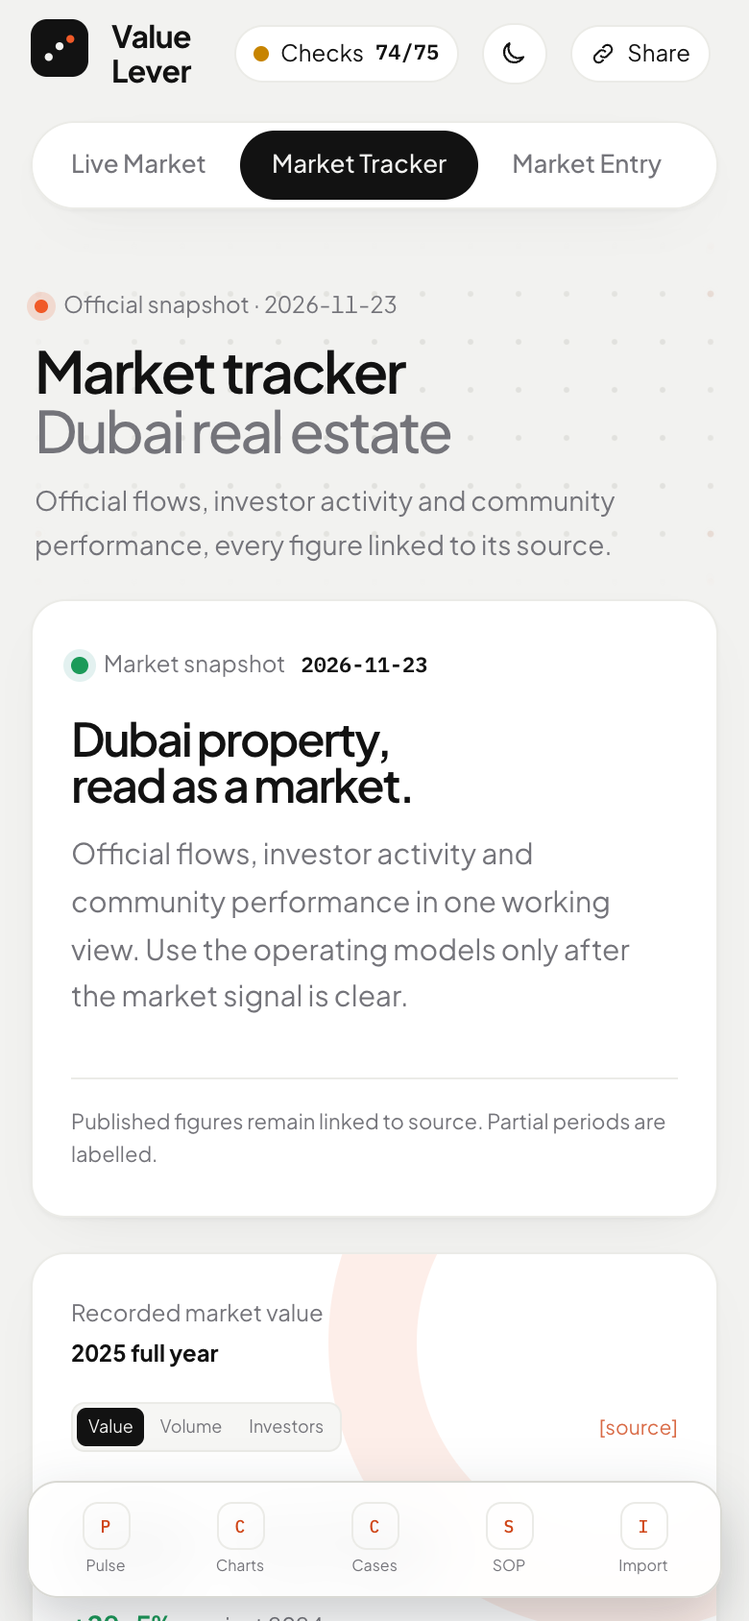
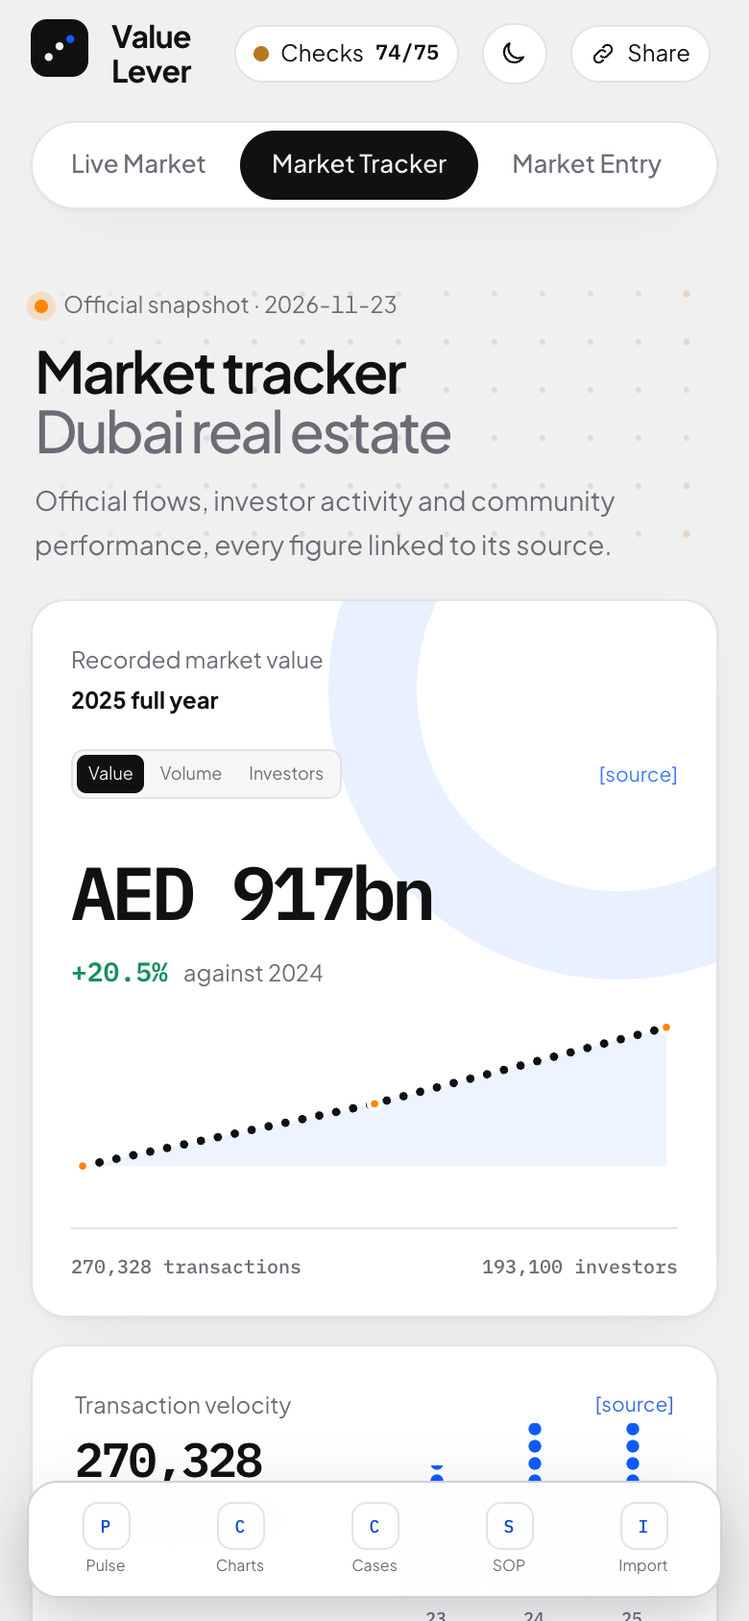
One palette (Cloudy White, Galactic Violet, Bubblegum), merged overview widgets, live-impact panel beside portfolio plays (v1.9.0)

diff --git a/src/ui/components/EntryView.jsx b/src/ui/components/EntryView.jsx
@@ -1,9 +1,9 @@
 import React, { useEffect, useMemo, useState } from 'react';
 import { AS_OF, SOURCES, JURISDICTIONS, VA_ACTIVITIES, MODELS, COMPANY_STEPS, PRODUCT_STEPS, VASP_STAGES, COMPLIANCE, assess, varaCosts } from '../../engine/entry.js';
 import { Source } from './Source.jsx';
-import { PageHead, Waterfall, Section, Contents } from './Dots.jsx';
+import { PageHead, Waterfall, Section, Contents, DotRing } from './Dots.jsx';
 import { LocationAdvisor, RouteProcedure, EntryTimeline, MoaGuide, TaxGuide, Bottlenecks } from './EntryGuide.jsx';
-import { STEPS, GUIDE_SOURCES } from '../../engine/entryGuide.js';
+import { STEPS, GUIDE_SOURCES, schedule, ROUTES } from '../../engine/entryGuide.js';
 
 const KEY = 'vls.entry.v1';
 const aed = (v) => (v == null ? 'Set by VARA' : `AED ${Math.round(v).toLocaleString('en-US')}`);
@@ -56,49 +56,24 @@ export function EntryView() {
   return <div className="market-board entry-board doc">
     <PageHead status={`Rules as at ${AS_OF}`} title="Market entry" muted="UAE"
       sub="What it takes to enter the UAE, in the order it falls due. A planning aid, not legal advice." />
-    <section className="market-opening">
-      <div className="market-intro">
-        <div className="market-status"><span aria-hidden="true" />Rules as at <b>{AS_OF}</b></div>
-        <h2>Enter the UAE,<br />licensed and in order.</h2>
-        <p>The structure, licences, tax, people and product rules in the order they fall due, with a full track for virtual-asset businesses benchmarked on Dubai's VARA.</p>
+    <section className="entry-overview">
+      <article className="w-card ov-profile">
+        <span className="w-eyebrow">Your entry</span>
         <div className="entry-profile">
           <Segments label="Business" value={model} onChange={setModel} options={MODELS.map((x) => [x.id, SHORT_MODEL[x.id]])} />
           <Segments label="Zone" value={zone} onChange={setZone} options={JURISDICTIONS.map((x) => [x.id, SHORT_ZONE[x.id]])} />
           {model === 'selfcustody' && <label className="entry-toggle"><input type="checkbox" checked={inApp} onChange={(e) => setInApp(e.target.checked)} /> App offers buy, swap or staking through partners</label>}
         </div>
-        <div className="market-provenance">{m.label}. A planning aid, not legal advice: confirm each requirement with the regulator and UAE counsel.</div>
-      </div>
-      <CostWidget va={m.va === true} costs={costs} acts={acts} regulator={a.jurisdiction.vaRegulator} steps={steps} done={done} />
-    </section>
-
-    <section className="instrument-grid">
-      <article className="instrument">
-        <header><span>Who regulates you</span><Source s={SOURCES[a.jurisdiction.src]} /></header>
-        <div className="instrument-value">{m.va ? a.jurisdiction.vaRegulator : 'Licensing authority'}</div>
-        <p>{m.va ? a.jurisdiction.note : 'Department of Economy and Tourism (mainland) or the free-zone authority issues the trade licence. No financial regulator unless the activity is regulated.'}</p>
-        <footer>{a.jurisdiction.label}</footer>
+        <ul className="ov-needs">
+          {a.needs.map((n) => <li key={n}>{n}</li>)}
+          {a.flags.map((f) => <li key={f} className="flag">{f}</li>)}
+        </ul>
       </article>
-      <article className="instrument">
-        <header><span>Entry readiness</span></header>
-        <div className="investor-body">
-          <div className="investor-ring" style={{ '--share': `${(ticked / total) * 100}%` }}><span>{Math.round((ticked / total) * 100)}%</span></div>
-          <div><div className="instrument-value">{ticked}/{total}</div><p>checklist items done</p></div>
-        </div>
-        <footer><b>{gsteps.filter((x) => x.docs.every((d) => done[`${route}:${x.id}:${d}`])).length}</b> of {gsteps.length} steps ready · documents ticked</footer>
-      </article>
-      <article className="instrument period-widget">
-        <header><span>{m.va === true ? 'Licence timeline' : 'Steps by phase'}</span>{m.va === true && <Source s={SOURCES.varaSchedule2} />}</header>
-        <div className="period-head"><div className="instrument-value">{m.va === true ? '4–12 mo' : `${steps.length} steps`}</div><span>{m.va === true ? 'IDQ to full licence, typical range' : 'in the order they fall due'}</span></div>
-        <div className="period-track" aria-label="Typical licence timeline in months">{Array.from({ length: 12 }, (_, i) => <i key={i} className={m.va === true ? (i < 4 ? 'on' : i < 12 ? 'maybe' : '') : (i < steps.length ? 'on' : '')} />)}</div>
-        <footer>{m.va === true ? <><b>Months 1–4</b> well-prepared · <b>to 12</b> with questions</> : <>Company setup first, then {m.product ? 'product compliance' : 'launch'}</>}</footer>
-      </article>
-    </section>
-
-    <section className="signal-ledger">
-      <header><div><h3>What this entry needs</h3><p>Routed from the business model and zone above.</p></div><span>{a.needs.length} requirements{a.flags.length ? ` · ${a.flags.length} flagged` : ''}</span></header>
-      <div>
-        {a.needs.map((n) => <article key={n}><i aria-hidden="true" /><p>{n}</p><span /></article>)}
-        {a.flags.map((f) => <article key={f} className="flag"><i aria-hidden="true" /><p>{f}</p><Source s={SOURCES.varaMarketing} /></article>)}
+      <div className="ov-stats">
+        <article className="w-card ov-stat"><span className="w-eyebrow">Who regulates you <Source s={SOURCES[a.jurisdiction.src]} /></span><b className="ov-big">{m.va ? a.jurisdiction.vaRegulator : 'Licensing authority'}</b><p>{m.va ? a.jurisdiction.label : 'DET, ADDED or the free-zone authority; no financial regulator unless the activity is regulated'}</p></article>
+        <article className="w-card ov-stat ov-ring"><DotRing value={total ? ticked / total : 0} label={`${Math.round((total ? ticked / total : 0) * 100)}%`} sub="ready" size={92} n={30} /><div><span className="w-eyebrow">Entry readiness</span><b className="ov-big">{ticked}/{total}</b><p>documents ticked for {ROUTES.find((x) => x.id === route).label}</p></div></article>
+        <article className="w-card ov-stat"><span className="w-eyebrow">Typical timeline</span><b className="ov-big">{Math.ceil(schedule(route, { regulated, use: 0.5 }).total)} weeks</b><p>{regulated ? 'regulated activity; the regulator sets the pace' : 'banking is usually the longest step'}</p></article>
+        <article className="w-card ov-stat"><span className="w-eyebrow">{m.va ? 'Regulatory fees, year one' : 'Financial licence'}</span><b className="ov-big">{m.va ? (acts.length ? aedShort(costs.firstYear) : '—') : 'None needed'}</b><p>{m.va ? `${acts.length} VARA ${acts.length === 1 ? 'activity' : 'activities'}; capital at least ${costs.capitalFloor != null ? aedShort(costs.capitalFloor) : '—'}` : 'trade licence, tax registration and visas only'}</p></article>
       </div>
     </section>
 
@@ -174,25 +149,3 @@ function Segments({ label, value, onChange, options }) {
   return <div className="entry-seg"><span>{label}</span><div className="chart-controls entry-wrap">{options.map(([id, text]) => <button key={id} type="button" className={value === id ? 'on' : ''} aria-pressed={value === id} onClick={() => onChange(id)}>{text}</button>)}</div></div>;
 }
 
-function CostWidget({ va, costs, acts, regulator, steps, done }) {
-  const [view, setView] = useState('fees');
-  if (!va) {
-    return <article className="pulse-widget">
-      <header><div><span>Entry procedure</span><b>No financial licence needed</b></div></header>
-      <div className="pulse-number">{steps.length} steps</div>
-      <div className="pulse-change"><strong>{steps.reduce((n, s) => n + s.checks.length, 0)} checks</strong><span>from structure to launch</span></div>
-      <div className="entry-bars">{steps.map((s) => { const k = s.checks.filter((c) => done[`${s.id}:${c}`]).length; return <div key={s.id} title={s.label}><i style={{ height: `${20 + (k / s.checks.length) * 80}%` }} className={k === s.checks.length ? 'full' : ''} /><span>{s.id.toUpperCase()}</span></div>; })}</div>
-      <footer><span>Bars fill as checks are ticked</span><span>Trade licence · tax · visas</span></footer>
-    </article>;
-  }
-  const rows = costs.capitalByActivity.map((c) => { const x = VA_ACTIVITIES.find((v) => v.id === c.id); return { id: c.id, label: x.label, v: view === 'fees' ? x.application + x.supervision : view === 'capital' ? c.capital ?? 0 : x.supervision }; });
-  const max = Math.max(1, ...rows.map((r) => r.v));
-  const head = { fees: ['Regulatory fees, year one', costs.firstYear, `Stage 1 payment ${aedShort(costs.atiPayment)}`, 'application plus first supervision'], capital: ['Paid-up capital floor', costs.capitalFloor ?? 0, 'Higher of the floor', 'or 15–25% of fixed overheads'], supervision: ['Annual supervision', costs.supervision, 'Every year', 'payable in advance'] }[view];
-  return <article className="pulse-widget">
-    <header><div><span>{head[0]}</span><b>{regulator} · {acts.length} {acts.length === 1 ? 'activity' : 'activities'}</b></div><div className="pulse-actions"><div className="pulse-switch" aria-label="Cost view">{[['fees', 'Fees'], ['capital', 'Capital'], ['supervision', 'Annual']].map(([id, t]) => <button key={id} type="button" className={view === id ? 'on' : ''} aria-pressed={view === id} onClick={() => setView(id)}>{t}</button>)}</div><Source s={view === 'capital' ? SOURCES.varaCapital : SOURCES.varaSchedule2} /></div></header>
-    <div className="pulse-number" key={view}>{acts.length ? aedShort(head[1]) : '—'}</div>
-    <div className="pulse-change"><strong>{head[2]}</strong><span>{head[3]}</span></div>
-    <div className="entry-bars">{rows.map((r) => <div key={r.id} title={`${r.label}: ${aed(r.v)}`}><i style={{ height: `${(r.v / max) * 100}%` }} /><span>{SHORT_ACT[r.id]}</span></div>)}</div>
-    <footer><span>{acts.length ? `Up to ${aed(costs.firstYear)} in fees` : 'Pick activities below'}</span><span>Before capital, insurance and staff</span></footer>
-  </article>;
-}

diff --git a/src/ui/styles.css b/src/ui/styles.css
@@ -235,7 +235,7 @@ table.data tr.dim td { opacity: 0.45; }
 .memo em { color: #5b6478; }
 .memo code { color: var(--gold-2); }
 
-:root[data-theme='dark'] .memo { background: #111a27; color: var(--text); }
+:root[data-theme='dark'] .memo { background: var(--panel-2); color: var(--text); }
 :root[data-theme='dark'] .memo strong { color: #fff; }
 :root[data-theme='dark'] .memo th { background: var(--panel-2); }
 :root[data-theme='dark'] .memo th,
@@ -647,10 +647,6 @@ table.funds td { vertical-align: top; }
 .month-strip span { color: var(--muted); font-family: var(--mono); font-size: 9px; }
 .momentum-table { padding: 18px; border: 1px solid var(--line); }
 
-:root[data-theme='dark'] .market-intro { background: rgba(21,30,43,.82); }
-:root[data-theme='dark'] .pulse-widget { background: #111c31; border-color: #263654; }
-:root[data-theme='dark'] .pulse-widget::after { border-color: rgba(111,143,255,.2); }
-:root[data-theme='dark'] .chart-controls button.on { box-shadow: 0 1px 3px rgba(0,0,0,.28); }
 
 @media (max-width: 1050px) {
   .market-opening, .market-analysis-grid { grid-template-columns: 1fr; }
@@ -1301,3 +1297,84 @@ table.data tr.clickable { cursor: pointer; }
 .w-card.spot > :not([class^="spotlight-card__"]) { position: relative; z-index: 2; }
 .sparks { height: auto !important; }
 @media (prefers-reduced-motion: reduce) { .page-grid { display: none; } }
+
+
+/* =====================================================================
+   One palette: Cloudy White #F0F0F0, Galactic Violet #105BFF, Bubblegum #FE8500 touches.
+   Every colour below comes from these tokens; nothing is hard-coded per widget.
+   ===================================================================== */
+:root {
+  --bg: #F0F0F0; --panel: #FFFFFF; --panel-2: #F6F6F7; --line: #E3E3E8; --line-2: #D0D0D8;
+  --text: #111114; --muted: #6C6C77; --gold: #105BFF; --gold-2: #0A47D6; --touch: #FE8500; --accent: var(--gold);
+  --pos: #16915A; --neg: #E5484D; --amber: #B7791F; --track: #E8E8EC; --hue-5: #FE8500; --hue-6: #A9A9B3;
+  --shadow: 0 1px 2px rgba(17,17,20,.04), 0 10px 30px -18px rgba(17,17,20,.14);
+}
+:root[data-theme='dark'] {
+  --bg: #0E0E12; --panel: #17171C; --panel-2: #1F1F26; --line: #2A2A33; --line-2: #3B3B47;
+  --text: #F0F0F0; --muted: #A0A0AB; --gold: #4C82FF; --gold-2: #7DA4FF; --touch: #FF9A2E;
+  --pos: #3CCB84; --neg: #FF6B6B; --amber: #E0A43A; --track: #26262E; --hue-5: #FF9A2E; --hue-6: #5E5E69;
+  --shadow: 0 1px 0 rgba(255,255,255,.03), 0 10px 30px -18px rgba(0,0,0,.6);
+}
+a:focus-visible, button:focus-visible, input:focus-visible, select:focus-visible { outline: 2px solid var(--gold); }
+::selection { background: color-mix(in srgb, var(--gold) 22%, transparent); }
+/* Bubblegum touches: status dots, section index, critical path, live highlights */
+.page-status i { background: var(--touch); box-shadow: 0 0 0 4px color-mix(in srgb, var(--touch) 18%, transparent); }
+.contents button span { color: var(--touch); background: color-mix(in srgb, var(--touch) 12%, transparent); }
+.folder-tabs button.on span { color: var(--touch); background: color-mix(in srgb, var(--touch) 12%, transparent); }
+.dl-hot { fill: var(--touch); }
+.g-row.crit .g-track i { background: radial-gradient(circle, var(--touch) 2.4px, transparent 2.7px) 0 50% / 8px 12px, color-mix(in srgb, var(--touch) 16%, transparent); }
+.t2-moved { background: var(--touch); }
+.advisor-card.best, .persp.on, .play-card.on { box-shadow: 0 0 0 2px var(--gold), var(--shadow); }
+.market-status span { background: var(--touch); box-shadow: 0 0 0 4px color-mix(in srgb, var(--touch) 15%, transparent); }
+/* Legacy widgets brought onto the tokens */
+.pulse-widget, .market-intro { background: var(--panel); color: var(--text); border-color: var(--line); }
+.pulse-widget::after { border-color: color-mix(in srgb, var(--gold) 9%, transparent); }
+.pulse-widget header span, .pulse-change span, .pulse-switch button, .pulse-widget > footer, .pulse-widget footer, .entry-bars span { color: var(--muted); }
+.pulse-widget .src { color: var(--gold); }
+.pulse-switch { border-color: var(--line); background: var(--panel-2); }
+.pulse-switch button.on { background: var(--text); color: var(--bg); }
+.pulse-change strong { color: var(--pos); }
+.pulse-chart polyline { stroke: var(--text); }
+.pulse-chart circle { fill: var(--touch); stroke: var(--panel); }
+.pulse-chart polygon { fill: color-mix(in srgb, var(--gold) 7%, transparent); }
+.comparison-cover { background: var(--panel-2) !important; color: var(--text) !important; }
+.comparison-cover::before { border-color: color-mix(in srgb, var(--gold) 12%, transparent) !important; }
+.comparison-cover span, .comparison-cover small { color: var(--muted) !important; }
+.chart-key i, .history-bar-space i.partial { --dotc: var(--touch); }
+.drop-zone > i, .sop-complete { background: var(--text); border-color: var(--text); color: var(--bg); }
+.switch.on { background: var(--gold); border-color: var(--gold); }
+.switch.on span { background: #fff; }
+.play, .tab.on, .seg button.on, .chip.on, .chart-controls button.on { background: var(--text); color: var(--bg); }
+.platform { background: var(--gold); color: #fff; }
+.verdict { background: var(--text); color: var(--bg); }
+
+/* Merged overviews: fewer, denser widgets */
+.entry-overview { display: grid; grid-template-columns: minmax(0, 1.1fr) minmax(0, 1fr); gap: 14px; }
+.ov-profile .entry-profile { margin-top: 4px; }
+.ov-needs { margin: 14px 0 0; padding: 12px 0 0 18px; border-top: 1px dashed var(--line-2); display: grid; gap: 6px; font-size: 12.5px; line-height: 1.45; }
+.ov-needs li::marker { color: var(--gold); }
+.ov-needs li.flag { color: var(--neg); }
+.ov-needs li.flag::marker { color: var(--touch); }
+.ov-stats { display: grid; grid-template-columns: repeat(2, minmax(0, 1fr)); gap: 14px; }
+.ov-stat { display: flex; flex-direction: column; gap: 4px; padding: 16px 18px; }
+.ov-stat .w-eyebrow { display: flex; justify-content: space-between; margin: 0; }
+.ov-big { font-size: 24px; font-weight: 600; letter-spacing: -.03em; }
+.ov-stat p { margin: 0; color: var(--muted); font-size: 12px; line-height: 1.4; }
+.ov-ring { flex-direction: row; align-items: center; gap: 14px; }
+.market-top { display: grid; grid-template-columns: minmax(0, 1.5fr) repeat(3, minmax(0, 1fr)); gap: 14px; align-items: stretch; }
+.market-top .pulse-widget { min-height: 300px; }
+.market-top .instrument { min-height: 0; }
+@media (max-width: 1250px) { .market-top { grid-template-columns: repeat(3, minmax(0, 1fr)); } .market-top .pulse-widget { grid-column: 1 / -1; } }
+@media (max-width: 900px) { .entry-overview, .market-top { grid-template-columns: minmax(0, 1fr); } }
+@media (max-width: 520px) { .ov-stats { grid-template-columns: minmax(0, 1fr); } }
+.plays-live { display: grid; grid-template-columns: minmax(0, 1fr) minmax(320px, 420px); gap: 14px; align-items: start; }
+.plays-live .play-grid { grid-template-columns: repeat(auto-fill, minmax(min(100%, 280px), 1fr)); }
+.live-impact { position: sticky; top: 120px; }
+.live-impact .kpi-strip { --n: 3 !important; grid-template-columns: repeat(3, minmax(0, 1fr)); }
+.live-impact .kpi-value { font-size: 18px; }
+.live-dot { display: inline-block; width: 7px; height: 7px; margin-left: 6px; border-radius: 50%; background: var(--touch); animation: live 1.6s ease-in-out infinite; vertical-align: 1px; }
+@keyframes live { 50% { opacity: .3; } }
+@media (max-width: 1100px) { .plays-live { grid-template-columns: minmax(0, 1fr); } .live-impact { position: static; order: -1; } }
+@media (prefers-reduced-motion: reduce) { .live-dot { animation: none; } }
+@media (max-width: 700px) { .page-grid { left: -16px; right: -16px; } }
+html, body { overflow-x: clip; }

diff --git a/src/ui/components/PortfolioView.jsx b/src/ui/components/PortfolioView.jsx
@@ -72,6 +72,7 @@ export function PortfolioView({ bySector, plays, setPlays, intercompany = [], se
     </Section>
 
     <Section id="pl-plays" n={3} title="Portfolio plays" sub="Switch a play on and tune its assumptions. The value bar and the portfolio figures above update as you drag.">
+      <div className="plays-live">
       <div className="play-grid">{PLAYS.map((play) => {
         const state = plays[play.id];
         const result = runPlay(play, state?.params);
@@ -85,12 +86,38 @@ export function PortfolioView({ bySector, plays, setPlays, intercompany = [], se
           {state?.on && (result.risks.length > 0 || result.notes.length > 0) && <details className="play-more"><summary>Notes and risks</summary>{result.notes.map((note) => <p key={note} className="muted sm">{note}</p>)}{result.risks.map((risk) => <p key={risk} className="risk-line">{risk}</p>)}</details>}
         </SpotCard>;
       })}</div>
+      <LiveImpact portfolio={portfolio} plays={plays} />
+      </div>
     </Section>
 
     <Section id="pl-newco" n={4} title="New company case: capex and opex" sub="Size a company you might invest in: set-up capex, the opex build, working capital and tax, through to funding need, breakeven, IRR and exit value.">
       <NewcoCalc />
     </Section>
   </div>;
+}
+
+// Sits beside the play cards and redraws as plays are switched on or their sliders move.
+function LiveImpact({ portfolio, plays }) {
+  const active = portfolio.activePlays;
+  const opsStart = portfolio.baseEv + portfolio.operating;
+  const bridge = { start: opsStart, end: portfolio.total, steps: active.map(({ play, result }) => ({ id: play.id, label: play.title, delta: result.value })) };
+  const max = Math.max(1, ...PLAYS.map((p) => Math.abs(runPlay(p, plays[p.id]?.params).value)));
+  return (
+    <aside className="live-impact">
+      <Card>
+        <span className="w-eyebrow">Live impact <i className="live-dot" aria-hidden="true" /></span>
+        <KpiStrip items={[
+          { id: 'tot', label: 'Scenario value', money: portfolio.total },
+          { id: 'pv', label: 'From plays', money: portfolio.playValue, sign: true },
+          { id: 'cash', label: 'Net cash', money: portfolio.cash, sign: true },
+        ]} />
+        {active.length ? <Waterfall bridge={bridge} startLabel="Before plays" endLabel="With plays" format={(v) => money(v)} height={260} />
+          : <p className="empty-card">Switch on a play to see it here. Each card's value is already shown below its title.</p>}
+        <span className="w-eyebrow" style={{ marginTop: 14 }}>Every play, value if switched on</span>
+        <DotRows valueWidth={96} rows={PLAYS.map((p) => { const on = plays[p.id]?.on; const r = runPlay(p, plays[p.id]?.params); return { label: p.title, to: Math.abs(r.value) / max, tone: on ? (r.value >= 0 ? 'pos' : 'neg') : 'faint', value: signed(r.value), dim: !on }; })} />
+      </Card>
+    </aside>
+  );
 }
 
 const TYPICAL = [

diff --git a/src/ui/components/Effects.jsx b/src/ui/components/Effects.jsx
@@ -16,7 +16,7 @@ const readVar = (name, fallback) => {
 
 // Re-reads the colour tokens whenever the light/dark theme changes.
 export function useTokens() {
-  const read = () => ({ text: readVar('--text', '#121212'), line: readVar('--line-2', '#d9d9d4'), accent: readVar('--gold', '#f05a28'), dark: document.documentElement.dataset.theme === 'dark' });
+  const read = () => ({ text: readVar('--text', '#121212'), line: readVar('--line-2', '#d9d9d4'), accent: readVar('--gold', '#105BFF'), touch: readVar('--touch', '#FE8500'), dark: document.documentElement.dataset.theme === 'dark' });
   const [t, setT] = useState(read);
   useEffect(() => {
     const mo = new MutationObserver(() => setT(read()));
@@ -31,7 +31,7 @@ export function HeaderGrid() {
   const t = useTokens();
   return (
     <div className="page-grid" aria-hidden="true">
-      <DotGrid dotSize={3} gap={22} baseColor={t.line} activeColor={t.accent} proximity={120} strength={0.8} shockRadius={260} shockStrength={3} glow={0.3} fade={0.6} opacity={0.9} />
+      <DotGrid dotSize={3} gap={22} baseColor={t.line} activeColor={t.touch} proximity={120} strength={0.8} shockRadius={260} shockStrength={3} glow={0.3} fade={0.6} opacity={0.9} />
     </div>
   );
 }
@@ -50,7 +50,7 @@ export function SpotCard({ className = '', children, ...rest }) {
 // A small burst of accent dots on every click inside the app.
 export function Sparks({ children }) {
   const t = useTokens();
-  return <ClickSpark sparkColor={[t.accent, t.text]} shape="dot" sparkCount={8} sparkRadius={22} sparkWidth={2.2} duration={420} randomness={0.35} className="sparks">{children}</ClickSpark>;
+  return <ClickSpark sparkColor={[t.accent, t.touch]} shape="dot" sparkCount={8} sparkRadius={22} sparkWidth={2.2} duration={420} randomness={0.35} className="sparks">{children}</ClickSpark>;
 }
 
 // A money figure (AED millions) that rolls to its new value, in the same format as fmt.money.

diff --git a/src/ui/components/MarketView.jsx b/src/ui/components/MarketView.jsx
@@ -39,17 +39,8 @@ export function MarketView() {
   return <div className="market-board doc">
     <PageHead status={`Official snapshot · ${OFFICIAL.asOf}`} title="Market tracker" muted="Dubai real estate"
       sub="Official flows, investor activity and community performance, every figure linked to its source." />
-    <section className="market-opening" id="market-pulse">
-      <div className="market-intro">
-        <div className="market-status"><span aria-hidden="true" />Market snapshot <b>{OFFICIAL.asOf}</b></div>
-        <h2>Dubai property,<br />read as a market.</h2>
-        <p>Official flows, investor activity and community performance in one working view. Use the operating models only after the market signal is clear.</p>
-        <div className="market-provenance">Published figures remain linked to source. Partial periods are labelled.</div>
-      </div>
+    <section className="market-top" id="market-pulse">
       <PulseWidget latest={latest} previous={previous} years={years} change={valueChange} />
-    </section>
-
-    <section className="instrument-grid" aria-label="Market headline instruments">
       <VelocityWidget latest={latest} previous={previous} years={years} change={transactionChange} />
       <InvestorWidget latest={latest} />
       <PeriodWidget period={currentPeriod} />

diff --git a/src/ui/components/SwarmCursor.jsx b/src/ui/components/SwarmCursor.jsx
@@ -11,7 +11,7 @@ export function SwarmCursor({ count = 34, scope }) {
     let w = 0, h = 0, raf = 0, idle = 0;
     const target = { x: -100, y: -100, on: false };
     const color = getComputedStyle(document.documentElement).getPropertyValue('--gold').trim() || '#f0592b';
-    const ink = getComputedStyle(document.documentElement).getPropertyValue('--text').trim() || '#111';
+    const ink = getComputedStyle(document.documentElement).getPropertyValue('--touch').trim() || '#FE8500';
     const P = Array.from({ length: count }, (_, i) => ({ x: -100, y: -100, vx: 0, vy: 0, r: 1.4 + (i % 4) * 0.55, k: 0.012 + (i / count) * 0.03, a: i * 0.7 }));
     const size = () => { w = innerWidth; h = innerHeight; canvas.width = w * dpr; canvas.height = h * dpr; canvas.style.width = `${w}px`; canvas.style.height = `${h}px`; ctx.setTransform(dpr, 0, 0, dpr, 0, 0); };
     const inScope = (ev) => !scope?.current || scope.current.contains(ev.target);

diff --git a/README.md b/README.md
@@ -106,7 +106,7 @@ Six illustrative operating models: real estate, hospitality, leisure, retail and
 
 - **Portfolio value:** each dot is 1% of portfolio EV. Hover a business to isolate it, click to open its value plan. Switch to the value bridge, the operating value or the plays.
 - **Consolidation:** an intercompany elimination helper with balance checks.
-- **Portfolio plays:** seven transparent corporate-finance plays (REIT carve-out, subsidiary IPO, land-bank JV, asset-light hospitality, platform consolidation, bolt-on M&A, master-planned launch), each with live assumptions.
+- **Portfolio plays:** seven transparent corporate-finance plays (REIT carve-out, subsidiary IPO, land-bank JV, asset-light hospitality, platform consolidation, bolt-on M&A, master-planned launch). A **live-impact panel beside the cards** redraws its waterfall, scenario value and net cash the moment a play is switched on or a slider moves.
 - **New company case:** a capex and opex calculator for a company you might invest in.
 
 ![Portfolio Lab](docs/screenshot-portfolio.png)
@@ -234,7 +234,7 @@ After `npm run build && npm start`: `GET /api/health`, `GET /api/sectors`, `POST
   - KPI strips that switch the chart below them;
   - dot-matrix line charts with hover read-outs, and waterfalls;
   - dot rings, folder tabs and status chips.
-- **Theme:** light and dark, from one set of CSS tokens.
+- **Palette:** one set of tokens drives every widget in light and dark mode: **Cloudy White** `#F0F0F0` canvas, **Galactic Violet** `#105BFF` accent, **Bubblegum** `#FE8500` touches (status dots, section index, critical path, live highlights), with green and red kept for gains and losses.
 - **CI** (`.github/workflows/ci.yml`): tests, refreshes market data on a 6-hour schedule, builds and deploys to GitHub Pages.
 
 ```text

diff --git a/CHANGELOG.md b/CHANGELOG.md
@@ -1,5 +1,20 @@
 # Changelog
 
+## 1.9.0 (2026-11-24): One palette, merged widgets, live plays
+
+- **One palette** in light and dark mode:
+  - Cloudy White `#F0F0F0` canvas, Galactic Violet `#105BFF` accent and Bubblegum `#FE8500` touches;
+  - the old dark-mode rules that turned Market Tracker and Market Entry widgets navy are removed.
+- **Merged widgets:**
+  - Market Entry opens with one compact overview: profile, requirements, regulator, readiness, timeline and fees;
+  - Market Tracker's four headline widgets share one row.
+- **Portfolio plays:** a live-impact panel sits beside the cards. Its waterfall and figures redraw as plays are switched on or their sliders move.
+- React Bits effects (dot grid headers, rolling KPI figures, spotlight cards, click sparks), vendored with their licence.
+- **Market Entry set-up guide:**
+  - where to set up, by business type;
+  - every step per route, with platform, documents, cost, time and bottleneck;
+  - a timeline, the memorandum of association, and VAT and corporate tax.
+
 ## 1.8.0 (2026-11-24): Variance, controls and new-company cases
 
 - **Variance bridges on every tab**, drawn as waterfall charts:
